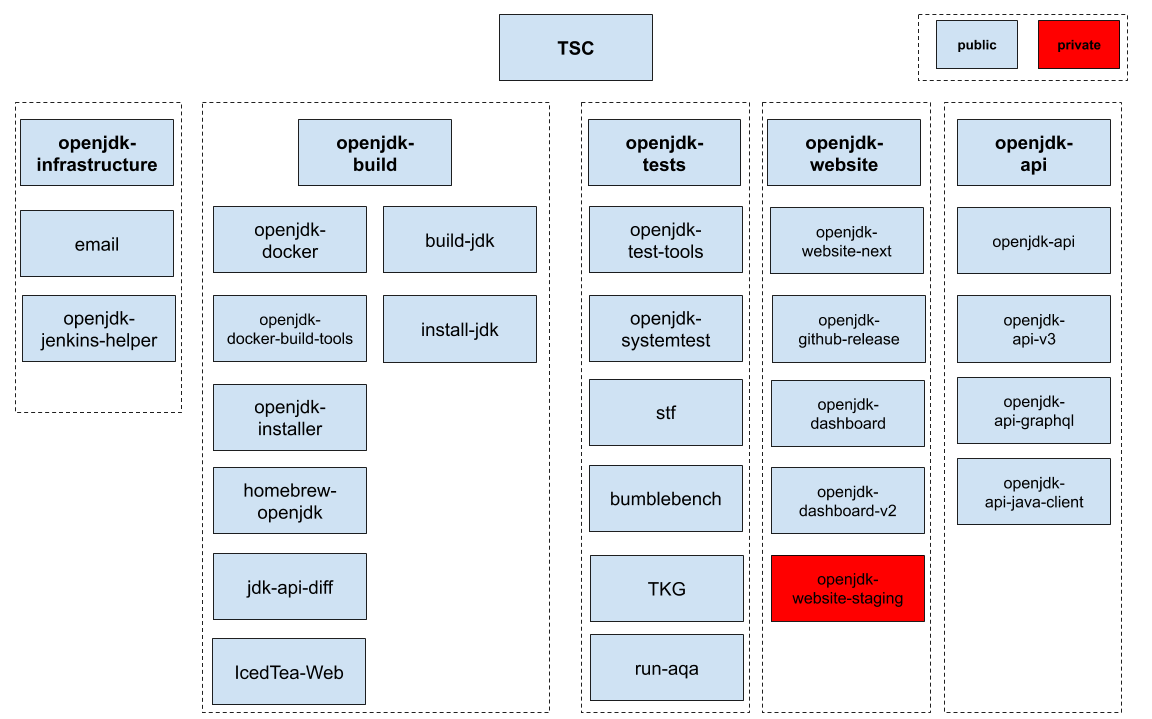
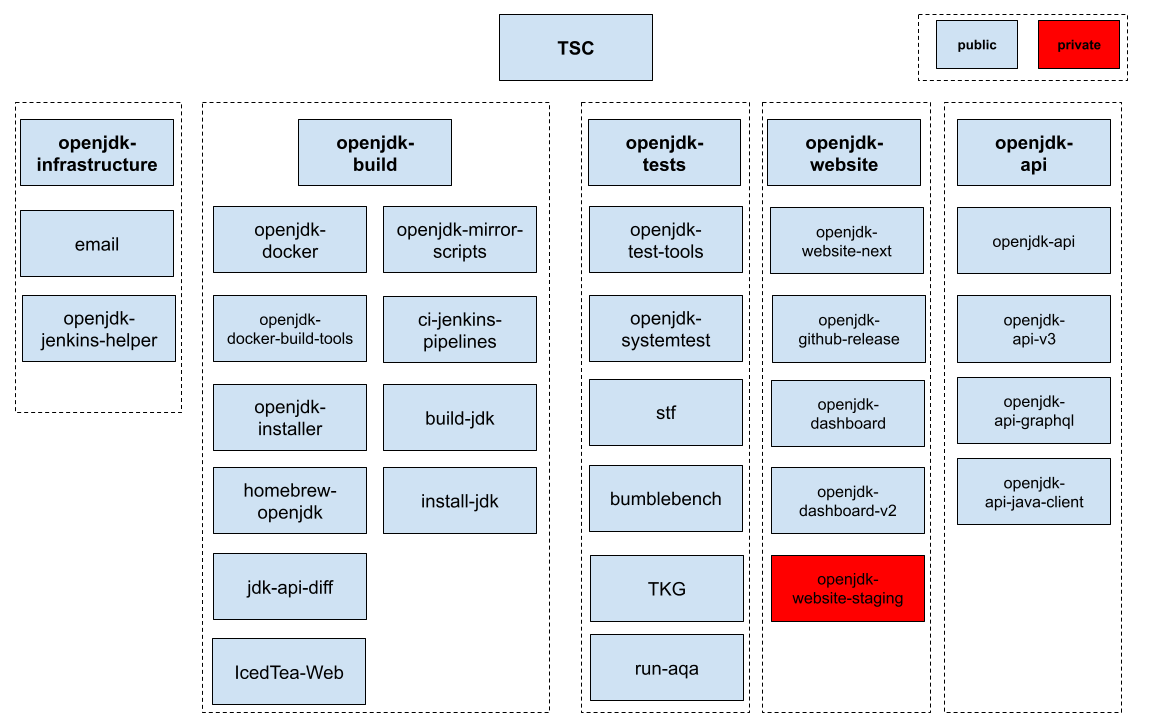
Update docs to include mirror and pipeline scripts (#208)
* Add mirror scripts and pipelines repos

* update build repos image

diff --git a/README.md b/README.md
@@ -33,7 +33,8 @@ These projects are located in the following repositories in rough order of impor
   * [email](https://github.com/AdoptOpenJDK/email) - For handling all org emails (mailgun).
   * [openjdk-jenkins-helper](https://github.com/AdoptOpenJDK/openjdk-jenkins-helper) - An auto label generator for Jenkins.
 * [openjdk-build](https://github.com/AdoptOpenJDK/openjdk-build) - Code and instructions for building Adopt OpenJDK Binaries.
-  * [IcedTea-Web](https://github.com/AdoptOpenJDK/IcedTea-Web) - IcedTea-Web, the OSS replacement for (most of) Java Web Start.
+  * [openjdk-mirror-scripts](https://github.com/AdoptOpenJDK/openjdk-mirror-scripts) - Our scripts to mirror OpenJDK source from Mercurial or GitHub (aka project Skara).
+  * [ci-jenkins-pipelines](https://github.com/AdoptOpenJDK/ci-jenkins-pipelines) - The Jenkins Pipelines scripts, used by Adopt and can be used by 3rd parties.
   * [openjdk-docker](https://github.com/AdoptOpenJDK/openjdk-docker) - Scripts for creating Docker images of OpenJDK binaries.
   * [openjdk-docker-build-tools](https://github.com/AdoptOpenJDK/openjdk-docker-build-tools) - Helper scripts for [openjdk-docker](https://github.com/AdoptOpenJDK/openjdk-docker).
   * [openjdk-installer](https://github.com/AdoptOpenJDK/openjdk-installer) - Installer files for creating platform packaged OpenJDK binaries.
@@ -41,6 +42,7 @@ These projects are located in the following repositories in rough order of impor
   * [jdk-api-diff](https://github.com/AdoptOpenJDK/jdk-api-diff) - A diff tool that reports what API changes there are between versions.
   * [build-jdk](https://github.com/AdoptOpenJDK/build-jdk) - Github action for building JDKs that utilizes the build scripts from the openjdk-build repo.
   * [install-jdk](https://github.com/AdoptOpenJDK/install-jdk) - Github action that installs SDKs served up by the AdoptOpenJDK API.
+  * [IcedTea-Web](https://github.com/AdoptOpenJDK/IcedTea-Web) - IcedTea-Web, the OSS replacement for (most of) Java Web Start.
 * [openjdk-tests](https://github.com/AdoptOpenJDK/openjdk-tests) - Instructions for all testing at AdoptOpenJDK, code for app, performance and regression testing of AdoptOpenJDK Binaries and CI test automation scripts.
   * [openjdk-test-tools](https://github.com/AdoptOpenJDK/openjdk-test-tools) - The home for Test Results Summary Service (TRSS) (not to be confused with [stf](https://github.com/AdoptOpenJDK/stf) which is the tooling for system tests).
   * [openjdk-systemtest](https://github.com/AdoptOpenJDK/openjdk-systemtest) - Code and instructions for system and load testing AdoptOpenJDK Binaries.
